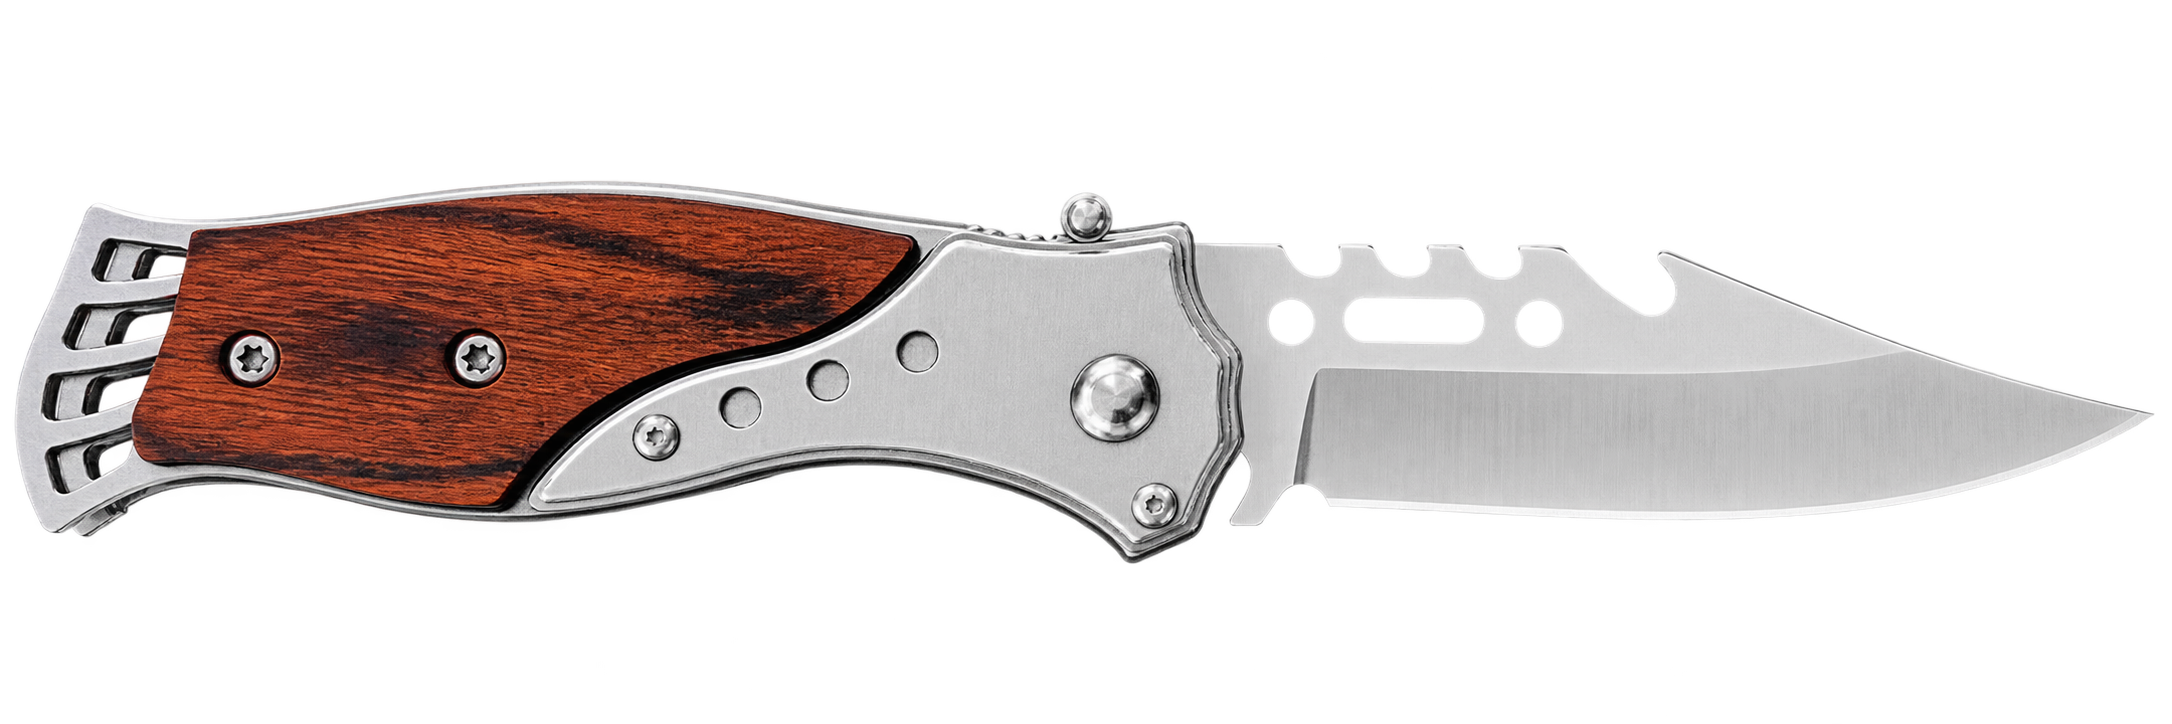
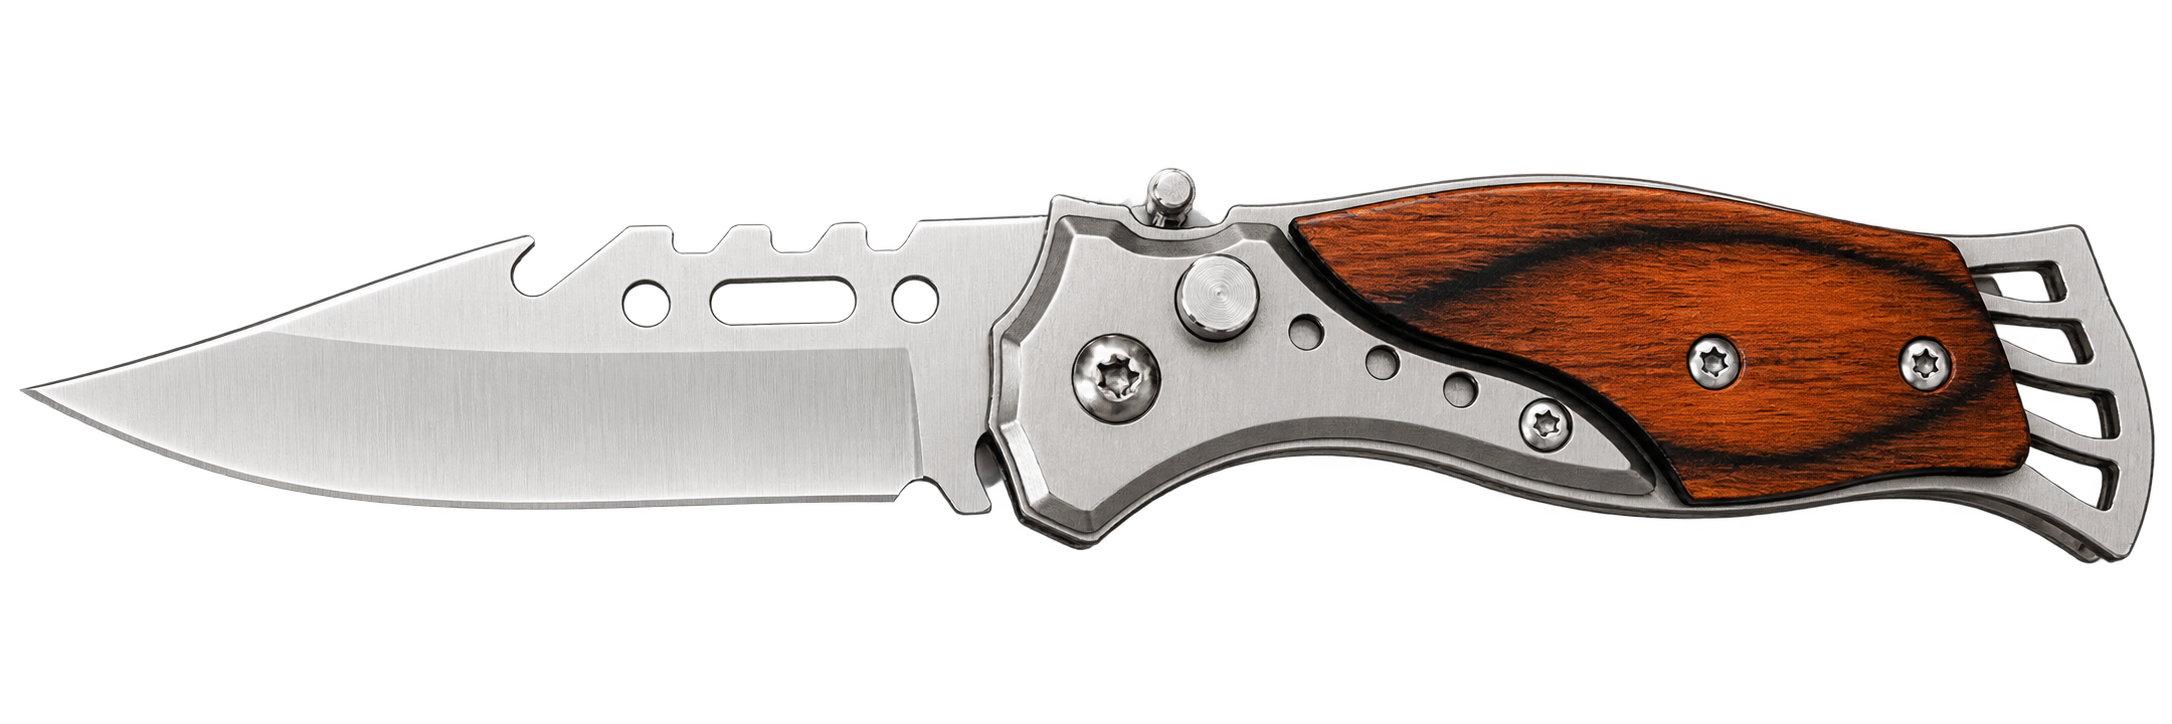
editor: fix engraving areas — santoku over dimples, pocketknife on blade
- Santoku (2851248): enlarge the engraving area to cover the blade face
  including the dimples, per Dan.
- Pocketknife (3008779): the boxes were landing on the wood handle; move
  each side's engraving area onto the blade (the live image order is the
  mirror of the reference set). Mock blade images swapped to match.

Claude-Session: https://claude.ai/code/session_016ng4efcDkifhpdYKeSdKeZ

diff --git a/editor.js b/editor.js
@@ -1,4 +1,4 @@
-/* Dan Harita design editor 202609301913 */
+/* Dan Harita design editor 202609301923 */
 /*
  * EngraveEngine — turns text and symbols into engraving outlines (mm),
  * and writes DXF (R12) and SVG. The same outlines drive the on-screen
@@ -604,7 +604,7 @@
   const EE = window.EngraveEngine;
   const SYMBOLS = window.DEMO_SYMBOLS;
   const CSS_TEXT = '.dhe { --ground: #f6f4f0; --surface: #ffffff; --surface-2: #f7f5f1; --ink: #1d1a16; --muted: #6b645a; --line: #e0dbd2; --accent: #8f6f33; --accent-ink: #ffffff; --accent-soft: #f2eadb; --brand: #c8a96e; --danger: #b3261e; --danger-soft: #fbeae8; --stage: #e7e3dc; --focus: #2f6fd6; --ok: #1e7b3a; direction: rtl; text-align: right; color: var(--ink); font-family: inherit; font-size: 16px; line-height: 1.4; display: grid; gap: 12px; margin: 12px 0 20px; padding: 12px; background: var(--ground); border: 1px solid var(--line); border-radius: 14px; box-sizing: border-box; width: 100%; max-width: 760px; } .dhe *, .dhe *::before, .dhe *::after { box-sizing: border-box; } .dhe [hidden] { display: none !important; } .dhe button, .dhe textarea, .dhe input, .dhe output { font-family: inherit; color: inherit; margin: 0; text-transform: none; letter-spacing: normal; box-shadow: none; background-image: none; float: none; text-shadow: none; } .dhe button { cursor: pointer; line-height: 1.2; -webkit-tap-highlight-color: transparent; } .dhe :focus-visible { outline: 2px solid var(--focus); outline-offset: 2px; } .dhe p { margin: 0; } .dhe h2 { margin: 0; font-size: 13px; font-weight: 700; letter-spacing: .02em; color: var(--muted); line-height: 1.3; } .dhe .dhe-btn { min-height: 44px; padding: 0 16px; border-radius: 10px; border: 1px solid var(--line); background: var(--surface); font-weight: 600; font-size: 16px; display: inline-flex; align-items: center; justify-content: center; gap: 6px; width: auto; height: auto; } .dhe .dhe-btn:hover { border-color: var(--accent); } .dhe .dhe-btn:disabled { opacity: .45; cursor: default; border-color: var(--line); } .dhe .dhe-btn.primary { background: var(--accent); color: var(--accent-ink); border-color: var(--accent); } .dhe .dhe-btn.primary:hover { filter: brightness(1.06); } .dhe .dhe-btn.danger { color: var(--danger); } .dhe .dhe-btn.icon { width: 44px; padding: 0; } .dhe .dhe-btn svg { width: 20px; height: 20px; } .dhe .dhe-bar { display: flex; align-items: center; gap: 8px; flex-wrap: wrap; } .dhe .dhe-bar .grow { flex: 1; min-width: 0; } .dhe .dhe-save { margin-top: 16px; padding-top: 14px; border-top: 1px solid var(--line); } .dhe .dhe-save .dhe-save-btn { width: 100%; display: flex; align-items: center; justify-content: center; gap: 10px; min-height: 62px; padding: 16px 20px; font-size: 18px; font-weight: 800; border-radius: 14px; box-shadow: 0 4px 16px rgba(143,111,51,.30); } .dhe .dhe-save .dhe-save-btn svg { width: 24px; height: 24px; flex: 0 0 auto; } .dhe .dhe-save-note { margin: 11px 4px 0; font-size: 13px; line-height: 1.45; color: var(--muted); text-align: center; } .dhe .dhe-status { font-size: 14px; color: var(--muted); font-weight: 600; margin-top: 8px; text-align: center; } .dhe .dhe-status.ok { color: var(--ok); } .dhe .dhe-status.dirty { color: var(--accent); } .dhe .dhe-test { font-size: 12px; font-weight: 700; color: var(--accent); background: var(--accent-soft); border-radius: 999px; padding: 2px 9px; } .dhe .dhe-tabs { display: inline-flex; background: var(--surface-2); border: 1px solid var(--line); border-radius: 12px; padding: 3px; gap: 3px; justify-self: start; } .dhe .dhe-tabs button { min-height: 38px; padding: 0 16px; border: 0; border-radius: 9px; background: transparent; font-weight: 600; font-size: 15px; color: var(--muted); } .dhe .dhe-tabs button[aria-selected="true"] { background: var(--surface); color: var(--ink); box-shadow: 0 1px 2px rgba(0,0,0,.12); } .dhe .dhe-tabs .count { font-weight: 400; color: var(--muted); } .dhe .dhe-stage-wrap { display: grid; gap: 6px; justify-items: center; } .dhe .dhe-stage { position: relative; width: 100%; background: var(--stage); border-radius: 12px; overflow: hidden; } .dhe .dhe-stage img.dhe-bg { position: absolute; inset: 0; width: 100%; height: 100%; max-width: none; display: block; margin: 0; user-select: none; -webkit-user-drag: none; pointer-events: none; border: 0; } .dhe .dhe-stage .canvas-container { position: absolute !important; inset: 0; } .dhe .dhe-stage canvas { max-width: none !important; max-height: none !important; } .dhe .dhe-loading { position: absolute; inset: 0; display: grid; place-items: center; color: var(--muted); font-weight: 600; background: var(--stage); text-align: center; padding: 16px; z-index: 2; } .dhe .dhe-readout { width: 100%; display: flex; justify-content: center; gap: 12px; flex-wrap: wrap; font-size: 13px; color: var(--muted); min-height: 18px; } .dhe .dhe-readout strong { color: var(--ink); font-weight: 600; } .dhe .dhe-quick { width: 100%; display: flex; flex-direction: column; align-items: center; gap: 6px; } .dhe .dhe-size { display: inline-flex; align-items: stretch; border: 2px solid var(--accent); border-radius: 12px; overflow: hidden; background: var(--surface); box-shadow: 0 1px 3px rgba(0,0,0,.12); } .dhe .dhe-size button { width: 60px; min-height: 52px; border: 0; background: var(--accent-soft); color: var(--accent); font-size: 30px; font-weight: 700; line-height: 1; padding: 0; touch-action: manipulation; user-select: none; -webkit-user-select: none; -webkit-touch-callout: none; } .dhe .dhe-size button:active { background: var(--accent); color: var(--accent-ink); } .dhe .dhe-size-label { display: inline-flex; align-items: center; justify-content: center; min-width: 96px; padding: 0 14px; font-size: 18px; font-weight: 700; color: var(--ink); } .dhe .dhe-fine { color: var(--muted); font-size: 13px; } .dhe .dhe-toolbar { display: flex; gap: 8px; flex-wrap: wrap; align-items: center; } .dhe .dhe-toolbar .grow { flex: 1; } .dhe .dhe-panel { background: var(--surface); border: 1px solid var(--line); border-radius: 12px; padding: 14px; display: grid; gap: 12px; } .dhe .dhe-hint { color: var(--muted); font-size: 15px; } .dhe .dhe-edit { position: absolute; top: 6px; left: 6px; right: 6px; z-index: 6; display: flex; gap: 6px; align-items: flex-start; } .dhe .dhe-edit textarea { flex: 1; min-width: 0; min-height: 46px; box-sizing: border-box; border: 2px solid var(--accent); border-radius: 10px; background: rgba(255, 255, 255, 0.95); color: #1d1a16; padding: 9px 12px; font-size: 18px; line-height: 1.35; resize: none; overflow: auto; unicode-bidi: plaintext; text-align: center; box-shadow: 0 4px 16px rgba(0, 0, 0, 0.22); } .dhe .dhe-edit textarea:focus { outline: none; box-shadow: 0 4px 16px rgba(0, 0, 0, 0.22), 0 0 0 3px var(--accent-soft); } .dhe .dhe-edit textarea::placeholder { color: #8d857a; } .dhe .dhe-edit button { width: 46px; min-height: 46px; border: 0; border-radius: 10px; background: var(--accent); color: var(--accent-ink); font-size: 20px; font-weight: 700; padding: 0; box-shadow: 0 4px 16px rgba(0, 0, 0, 0.22); } .dhe .dhe-fonts { display: grid; gap: 8px; overflow-x: auto; padding-bottom: 2px; scrollbar-width: none; -webkit-overflow-scrolling: touch; } .dhe .dhe-fonts::-webkit-scrollbar { display: none; } .dhe .dhe-fonts.dhe-dragging { cursor: grabbing; } .dhe .dhe-fonts.dhe-dragging .dhe-chip { pointer-events: none; } /* gentle, always-visible scrollbar under the fonts (shows there are more) */ .dhe .dhe-fontscroll { position: relative; height: 4px; border-radius: 999px; background: var(--accent-soft); margin: 6px 6px 0; } .dhe .dhe-fontscroll-thumb { position: absolute; top: 0; height: 100%; min-width: 20%; border-radius: 999px; background: var(--accent); opacity: .5; cursor: grab; touch-action: none; } .dhe .dhe-fontscroll-thumb:active { cursor: grabbing; opacity: .75; } .dhe .dhe-font-row { display: flex; gap: 8px; width: max-content; } .dhe .dhe-chip { flex: 0 0 96px; min-height: 52px; border: 1px solid var(--line); border-radius: 10px; background: var(--surface-2); padding: 5px 8px; display: grid; gap: 1px; text-align: center; cursor: pointer; } .dhe .dhe-chip .sample { font-size: 18px; line-height: 1.2; white-space: nowrap; overflow: hidden; text-overflow: ellipsis; unicode-bidi: plaintext; } .dhe .dhe-chip .name { font-size: 11px; color: var(--muted); white-space: nowrap; overflow: hidden; text-overflow: ellipsis; } .dhe .dhe-chip[aria-pressed="true"] { border-color: var(--accent); background: var(--accent-soft); box-shadow: inset 0 0 0 1px var(--accent); } .dhe .dhe-chip.warn .name { color: var(--danger); } .dhe .dhe-chip.loading { opacity: .55; } .dhe .dhe-row { display: flex; gap: 10px; flex-wrap: wrap; align-items: center; } .dhe .dhe-stepper { display: inline-flex; align-items: center; border: 1px solid var(--line); border-radius: 10px; overflow: hidden; background: var(--surface); } .dhe .dhe-stepper button { width: 44px; min-height: 42px; border: 0; background: var(--surface-2); font-size: 20px; font-weight: 700; padding: 0; touch-action: manipulation; user-select: none; -webkit-user-select: none; -webkit-touch-callout: none; } .dhe .dhe-stepper button:active { background: var(--accent-soft); } .dhe .dhe-stepper output { min-width: 128px; text-align: center; font-size: 14px; padding: 0 6px; } .dhe .dhe-seg { display: inline-flex; border: 1px solid var(--line); border-radius: 10px; overflow: hidden; } .dhe .dhe-seg button { min-height: 42px; padding: 0 12px; border: 0; background: var(--surface-2); font-weight: 600; font-size: 14px; } .dhe .dhe-seg button + button { border-inline-start: 1px solid var(--line); } .dhe .dhe-seg button[aria-pressed="true"] { background: var(--accent-soft); color: var(--accent); } .dhe .dhe-symbols { display: grid; grid-template-columns: repeat(4, minmax(0, 1fr)); gap: 8px; } .dhe .dhe-sym { border: 1px solid var(--line); border-radius: 10px; background: var(--surface-2); padding: 10px 6px 6px; display: grid; gap: 4px; justify-items: center; font-size: 13px; color: var(--muted); } .dhe .dhe-sym svg { width: 44px; height: 38px; color: var(--ink); } .dhe .dhe-sym:hover { border-color: var(--accent); } .dhe .dhe-nudge { display: flex; flex-wrap: wrap; align-items: center; gap: 6px; } .dhe .dhe-nudge-label { font-size: 13px; font-weight: 600; color: var(--muted); margin-inline-end: 4px; } .dhe .dhe-nudge button { width: 44px; height: 44px; border: 1px solid var(--line); border-radius: 10px; background: var(--surface-2); display: inline-grid; place-items: center; padding: 0; touch-action: manipulation; user-select: none; -webkit-user-select: none; -webkit-touch-callout: none; } .dhe .dhe-nudge button.wide { width: auto; padding: 0 14px; font-weight: 600; font-size: 14px; } .dhe .dhe-nudge button svg { width: 20px; height: 20px; } .dhe .dhe-nudge button:active { background: var(--accent-soft); border-color: var(--accent); } .dhe .dhe-issues { padding: 10px 14px; background: var(--danger-soft); color: var(--danger); border-radius: 10px; display: grid; gap: 4px; font-size: 14px; font-weight: 600; } .dhe details.dhe-settings { background: var(--surface); border: 1px solid var(--line); border-radius: 12px; padding: 0 14px; } .dhe details.dhe-settings summary { min-height: 44px; display: flex; align-items: center; font-weight: 600; cursor: pointer; font-size: 15px; } .dhe details.dhe-settings .body { display: grid; gap: 10px; padding-bottom: 14px; font-size: 15px; } .dhe details.dhe-settings label { display: flex; gap: 8px; align-items: center; font-weight: 400; margin: 0; } .dhe details.dhe-settings input { width: 18px; height: 18px; accent-color: var(--accent); } .dhe .dhe-toast { position: fixed; left: 16px; right: 16px; bottom: calc(16px + env(safe-area-inset-bottom, 0px)); margin: 0 auto; max-width: 520px; background: var(--ink); color: #fff; border-radius: 12px; padding: 12px 16px; font-weight: 600; font-size: 15px; box-shadow: 0 6px 24px rgba(0,0,0,.25); transition: opacity .2s, transform .2s; z-index: 2147483000; opacity: 0; transform: translateY(8px); pointer-events: none; text-align: center; } .dhe .dhe-toast.show { opacity: 1; transform: none; } @media (prefers-reduced-motion: reduce) { .dhe .dhe-toast { transition: none; } } @media (max-width: 420px) { .dhe { padding: 10px; } .dhe .dhe-stepper output { min-width: 108px; } .dhe .dhe-bar .dhe-btn { padding: 0 12px; } } ';
-  const VERSION = '202609301913';
+  const VERSION = '202609301923';
 
   // ------------------------------------------------------------------ config
 
@@ -676,7 +676,7 @@
     },
     knife: {
       slot: 'knife', label: 'סכין', fileLabel: 'knife',
-      areaMm: { w: 72, h: 12 },
+      areaMm: { w: 100, h: 20 },
       engrave: { color: '#161616', opacity: 0.8, blend: 'multiply' },
       minLetterMm: 2, defaultTextMm: 8,
       limits: { textBoxes: 2, symbols: 2, linesPerBox: 2, charsPerLine: 24 },
@@ -729,13 +729,14 @@
     // pass — the blade is busy with branding+dimples; fine-tune in the tool.
     '2851248': [
       { lib: 'board', area: { xPct: 15.0, yPct: 14.0, wPct: 67.0, hPct: 72.0, shape: 'rect' } },
-      { lib: 'knife', area: { xPct: 14.0, yPct: 29.0, wPct: 24.0, hPct: 12.0, shape: 'rect' } },
+      // Santoku: engraving over the blade face, including the dimples.
+      { lib: 'knife', area: { xPct: 9.0, yPct: 33.0, wPct: 40.0, hPct: 24.0, shape: 'rect' } },
     ],
-    // Pocketknife: side 1 (blade right), side 2 (blade left, paid upgrade).
-    // Areas measured on Dan's photos (first pass — refine with the tool).
+    // Pocketknife: engraving is on the BLADE of each side (the boxes sit on
+    // the blade, not the wood handle).
     '3008779': [
-      { lib: 'olar1', area: { xPct: 63.0, yPct: 44.0, wPct: 27.0, hPct: 18.0, shape: 'rect' } },
-      { lib: 'olar2', area: { xPct: 10.0, yPct: 44.0, wPct: 27.0, hPct: 18.0, shape: 'rect' } },
+      { lib: 'olar1', area: { xPct: 10.0, yPct: 44.0, wPct: 27.0, hPct: 18.0, shape: 'rect' } },
+      { lib: 'olar2', area: { xPct: 63.0, yPct: 44.0, wPct: 27.0, hPct: 18.0, shape: 'rect' } },
     ],
   };
 

diff --git a/src/editor-app.js b/src/editor-app.js
@@ -82,7 +82,7 @@
     },
     knife: {
       slot: 'knife', label: 'סכין', fileLabel: 'knife',
-      areaMm: { w: 72, h: 12 },
+      areaMm: { w: 100, h: 20 },
       engrave: { color: '#161616', opacity: 0.8, blend: 'multiply' },
       minLetterMm: 2, defaultTextMm: 8,
       limits: { textBoxes: 2, symbols: 2, linesPerBox: 2, charsPerLine: 24 },
@@ -135,13 +135,14 @@
     // pass — the blade is busy with branding+dimples; fine-tune in the tool.
     '2851248': [
       { lib: 'board', area: { xPct: 15.0, yPct: 14.0, wPct: 67.0, hPct: 72.0, shape: 'rect' } },
-      { lib: 'knife', area: { xPct: 14.0, yPct: 29.0, wPct: 24.0, hPct: 12.0, shape: 'rect' } },
+      // Santoku: engraving over the blade face, including the dimples.
+      { lib: 'knife', area: { xPct: 9.0, yPct: 33.0, wPct: 40.0, hPct: 24.0, shape: 'rect' } },
     ],
-    // Pocketknife: side 1 (blade right), side 2 (blade left, paid upgrade).
-    // Areas measured on Dan's photos (first pass — refine with the tool).
+    // Pocketknife: engraving is on the BLADE of each side (the boxes sit on
+    // the blade, not the wood handle).
     '3008779': [
-      { lib: 'olar1', area: { xPct: 63.0, yPct: 44.0, wPct: 27.0, hPct: 18.0, shape: 'rect' } },
-      { lib: 'olar2', area: { xPct: 10.0, yPct: 44.0, wPct: 27.0, hPct: 18.0, shape: 'rect' } },
+      { lib: 'olar1', area: { xPct: 10.0, yPct: 44.0, wPct: 27.0, hPct: 18.0, shape: 'rect' } },
+      { lib: 'olar2', area: { xPct: 63.0, yPct: 44.0, wPct: 27.0, hPct: 18.0, shape: 'rect' } },
     ],
   };
 

diff --git a/src/mock/product.html b/src/mock/product.html
@@ -121,7 +121,7 @@ li.clsSelected { border-color: #222; background: #f8f8f8; }
 (function () {
   'use strict';
   var BASE = '/';
-  var VER = '202609301913';           // גרסת הטוען (לבדיקה בקונסול: DHEditorLoader)
+  var VER = '202609301923';           // גרסת הטוען (לבדיקה בקונסול: DHEditorLoader)
   var LIVE = false;              // true = מוצג לכל הלקוחות (בכל המוצרים)
   // מוצרים שהעורך חי עליהם לכל הלקוחות בלי #dhtest (לפי PicID). שאר המוצרים
   // נשארים בפיילוט ומופיעים רק עם #dhtest. להוסיף מוצר = להוסיף את המזהה כאן.

diff --git a/loader.js b/loader.js
@@ -10,7 +10,7 @@
 (function () {
   'use strict';
   var BASE = 'https://danharita.github.io/harita-editor/';
-  var VER = '202609301913';           // גרסת הטוען (לבדיקה בקונסול: DHEditorLoader)
+  var VER = '202609301923';           // גרסת הטוען (לבדיקה בקונסול: DHEditorLoader)
   var LIVE = false;              // true = מוצג לכל הלקוחות (בכל המוצרים)
   // מוצרים שהעורך חי עליהם לכל הלקוחות בלי #dhtest (לפי PicID). שאר המוצרים
   // נשארים בפיילוט ומופיעים רק עם #dhtest. להוסיף מוצר = להוסיף את המזהה כאן.
